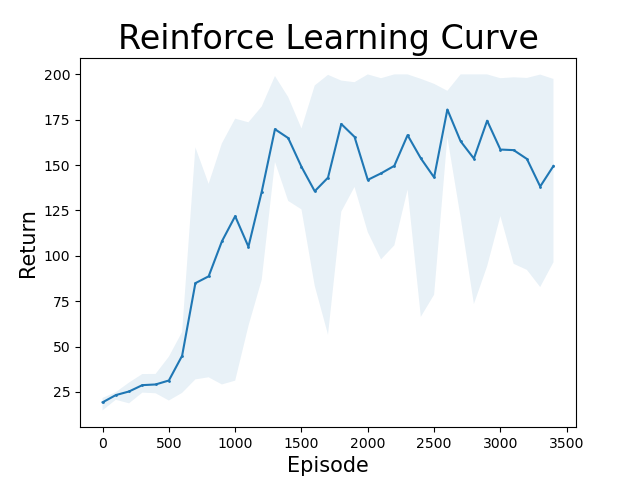
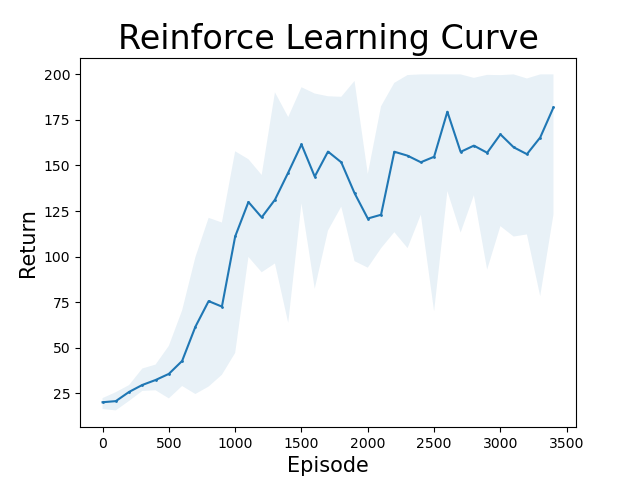
Fix A2C

diff --git a/hw2/hw2_code/pytorch/a2c/a2c.py b/hw2/hw2_code/pytorch/a2c/a2c.py
@@ -87,7 +87,7 @@ class A2C(object):
                     V = self.critic(torch.from_numpy(obss[t+self.N]).float()).squeeze()
                 else:
                     V = 0
-                G[t] = np.sum([gamma ** (k - t) * rewards[k] for k in range(t, min(t+self.N, T))]) + gamma ** self.N * V
+                G[t] = np.sum([gamma ** (k - t) * rewards[k] for k in range(t, min(t+self.N, T))]) + gamma ** (min(t+self.N, T) - t) * V
         else:
             for t in range(T-1, -1, -1):
                 G[t] = rewards[t] + gamma * (G[t+1] if t+1 < T else 0)
@@ -98,17 +98,22 @@ class A2C(object):
             actor_loss = -torch.sum(torch.log(action_probs) * G) / T
         elif self.type == "Baseline":
             baseline_values = self.critic(torch.from_numpy(np.array(obss)).float()).squeeze()
-            actor_loss = -torch.sum(torch.log(action_probs) * (G - baseline_values.detach())) / T
-            critic_loss = torch.sum((G - baseline_values) ** 2) / T
+            actor_loss = -torch.sum(torch.log(action_probs) * (G - baseline_values).detach()) / T
+            critic_loss = torch.sum((G.detach() - baseline_values) ** 2) / T
         else:
             critic_value = self.critic(torch.from_numpy(np.array(obss)).float()).squeeze()
-            critic_loss = torch.sum((G - critic_value) ** 2) / T
-            actor_loss = -torch.sum(torch.log(action_probs) * (G - critic_value.detach())) / T
+            critic_loss = torch.sum((G.detach() - critic_value) ** 2) / T
+            actor_loss = -torch.sum(torch.log(action_probs) * (G - critic_value).detach()) / T
 
         # Update
-        self.actor_optimizer.zero_grad()
-        actor_loss.backward()
-        self.actor_optimizer.step()
-        self.critic_optimizer.zero_grad()
-        critic_loss.backward()
-        self.critic_optimizer.step()
+        if self.type == "Reinforce":
+            self.actor_optimizer.zero_grad()
+            actor_loss.backward()
+            self.actor_optimizer.step()
+        else:
+            self.actor_optimizer.zero_grad()
+            self.critic_optimizer.zero_grad()
+            actor_loss.backward()
+            critic_loss.backward()
+            self.actor_optimizer.step()
+            self.critic_optimizer.step()

diff --git a/hw2/hw2_code/pytorch/a2c/run.py b/hw2/hw2_code/pytorch/a2c/run.py
@@ -79,10 +79,13 @@ def main_a2c(args):
         # TODO: create networks and setup reinforce/a2c
         actor = NeuralNet(env.observation_space.shape[0], nA, torch.nn.Softmax(dim=-1))
         critic = NeuralNet(env.observation_space.shape[0], 1, torch.nn.Identity())
-        A2C_net = A2C(actor, lr, args.n, nA, critic, critic_lr, baseline=args.baseline, a2c=args.a2c)
+        if args.baseline:
+            A2C_net = A2C(actor, lr, args.n, nA, critic, baseline_lr, baseline=args.baseline, a2c=args.a2c)
+        else:
+            A2C_net = A2C(actor, lr, args.n, nA, critic, critic_lr, baseline=args.baseline, a2c=args.a2c)
 
         for m in range(num_episodes):
-            A2C_net.train(env, gamma=gamma)
+            A2C_net.train(env, gamma=gamma, n=args.n)
             if m % 100 == 0:
                 print("Episode: {}".format(m))
                 G = np.zeros(20)
